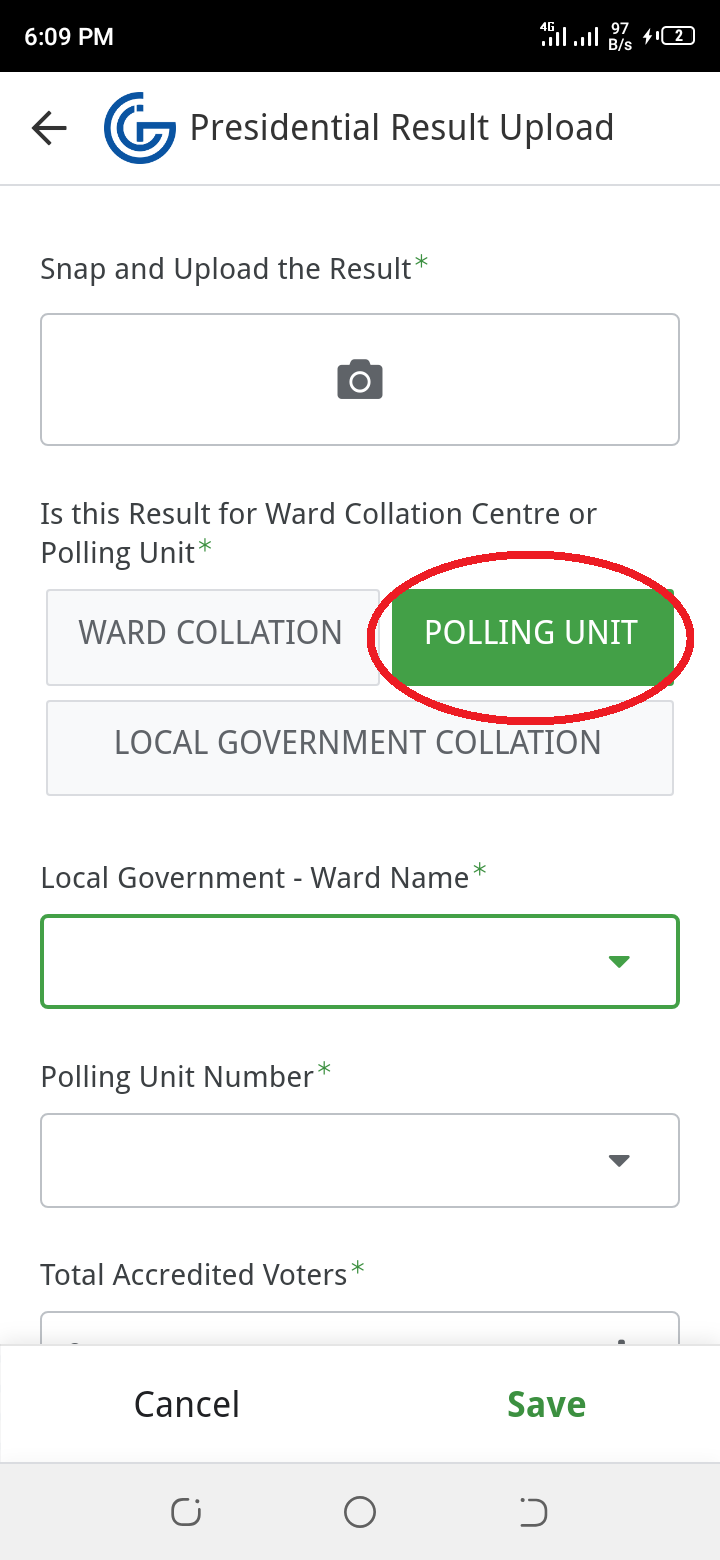
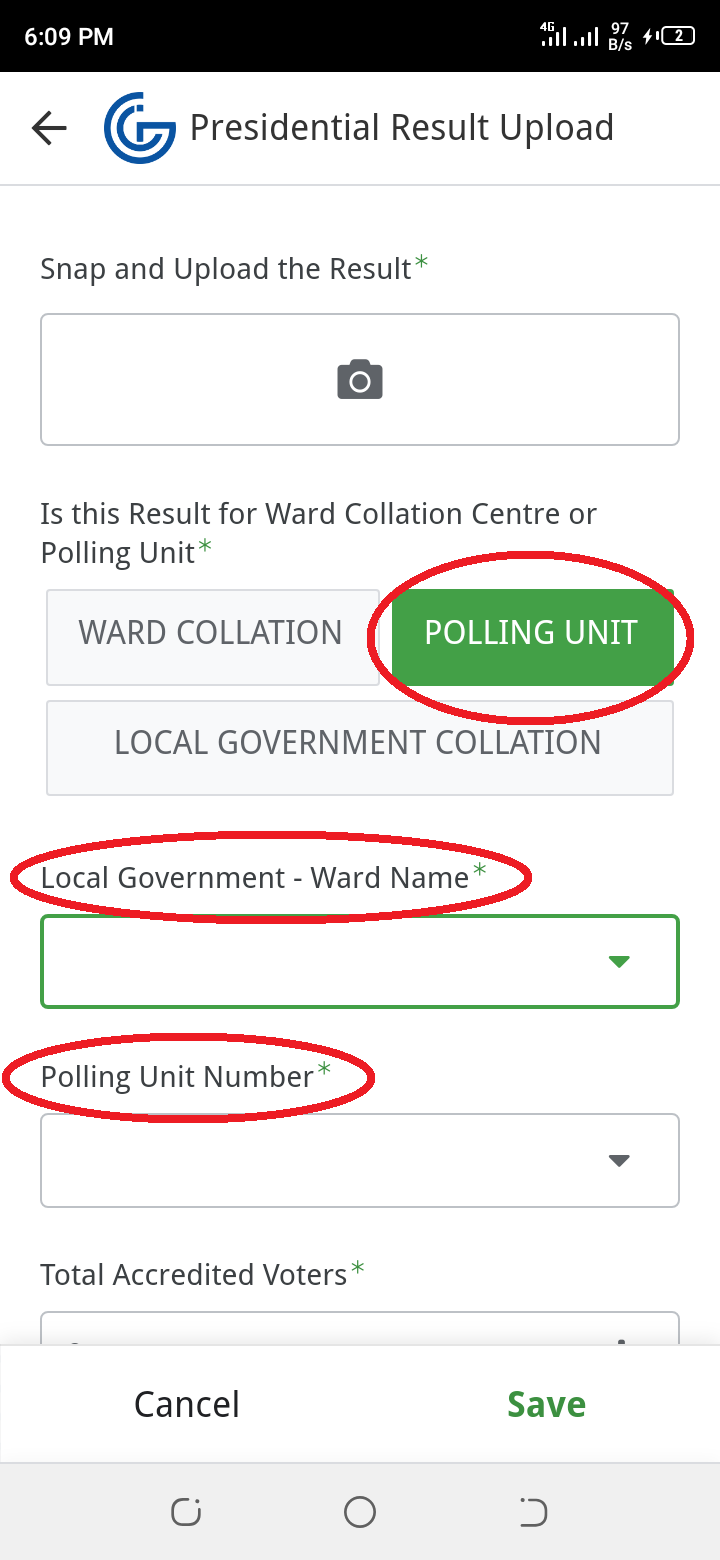
aza
swwww

diff --git a/index.html b/index.html
@@ -37,7 +37,7 @@
 		<img src="3sync.png"> <br> <br>
 	
 	<paragraph>
-		there is a small box at the bottom. Scroll the box to the end and click accept.  </paragraph>
+		There is a small box at the bottom. Scroll the box to the end of the small box and click accept.  </paragraph>
 		<img src="4bot_box.png"> <br> <br>
 		<img src="5bot_accpt.png"> <br> <br>
 
@@ -48,21 +48,21 @@
 	<paragraph>
 		<b>To upload result.</b> <br>
 		click "Presidential Result Upload" at the bottom of the app. <br> <br></paragraph>
-		<img src="6permison.png"> <br> <br>
+		<img src="9_predential_up.png"> <br> <br>
 		<paragraph>First Click on the photo icon, to select the photo<br>
 		Next, tap "polling unit".
-		By default polling unit is selected (in green). Then fill in your "<b>Local Government - Ward Name</b>"<br> <a href="#k" style="color:red">Scroll to how to know and select your "<b>Local Government - Ward Name</b>"</a></paragraph>
+		By default polling unit is selected (in green). Then fill in your "<b>Local Government - Ward Name</b>"<br> <a href="#k" style="color:red">Scroll to how to get and select your "<b>Local Government - Ward Name</b>"</a></paragraph>
 		
 		<img src="10_p_up_2.png"> <br> <br>
-	<paragraph>then fill in the other details of your polling unit, <br>
-		and click save at the bottom. These informations are in your form EC 8A.</paragraph>
+	<paragraph>then fill in the other details of your polling unit, and click save at the bottom. These informations are in your form EC 8A.</paragraph>
 		<img src="11_p_up_3.png"> <br> <br>
 	
 
 	<paragraph id="k">
-		<b>How to get your "<span style="color:red;">Local Government - Ward Name</span>".</b>
+		<h2 style="display:block; text-decoration: underline; left:auto; right:auto;"><b>How to get and select your "<span style="color:red;">Local Government - Ward Name</span>".</b></h2>
 		The <b>"Local Government - Ward Name"</b> fully describe your ward name in the entire Nigeria. Its format is like this:<br>
-		<b>{State} -{LGA} - {Ward Name/Reg Area} -{Ward No.} </b>. In each ward there are several polling units.<br>
+		<b>{State} -{LGA} - {Ward Name/Reg Area} -{Ward No.}</b><br>
+		In each ward there are several polling units.<br>
 		Note:"Reg Area" = Registration Area. <br><br>
 
 		The <b>"Local Government - Ward Name"</b> is selected from the dropdown lists already made in the app. But the list is too long.<br>
